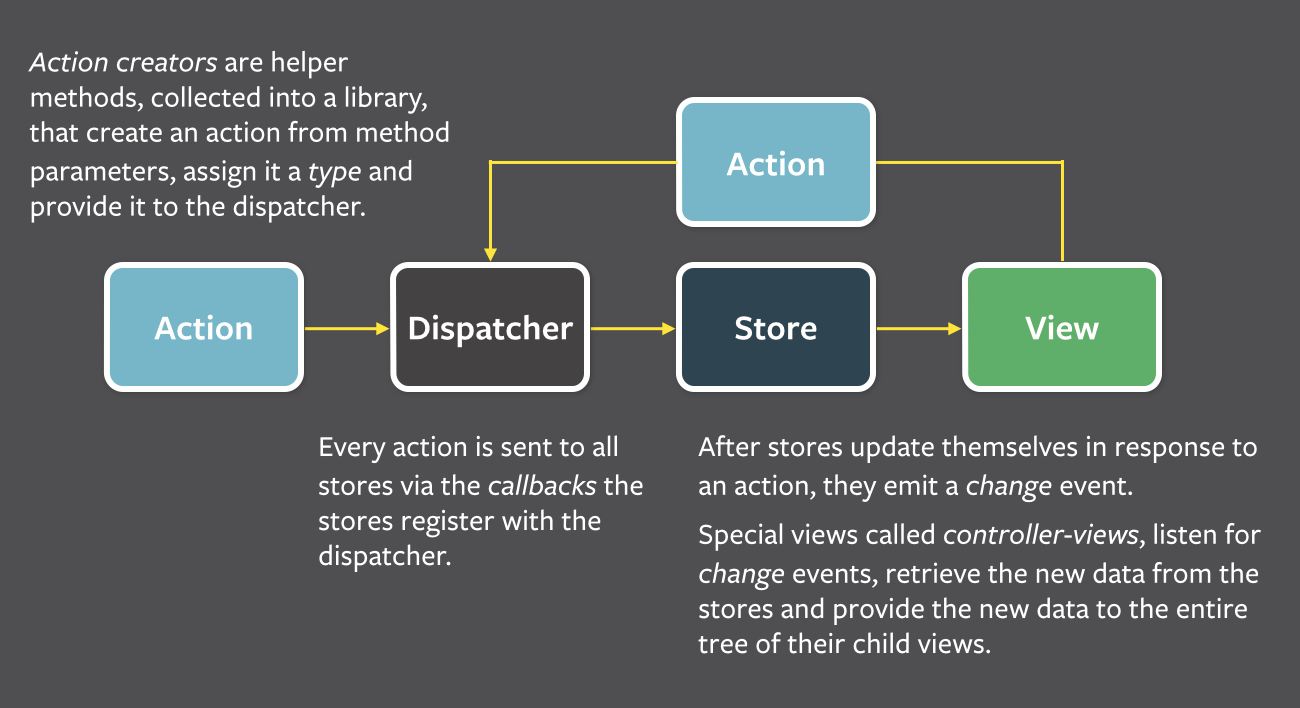
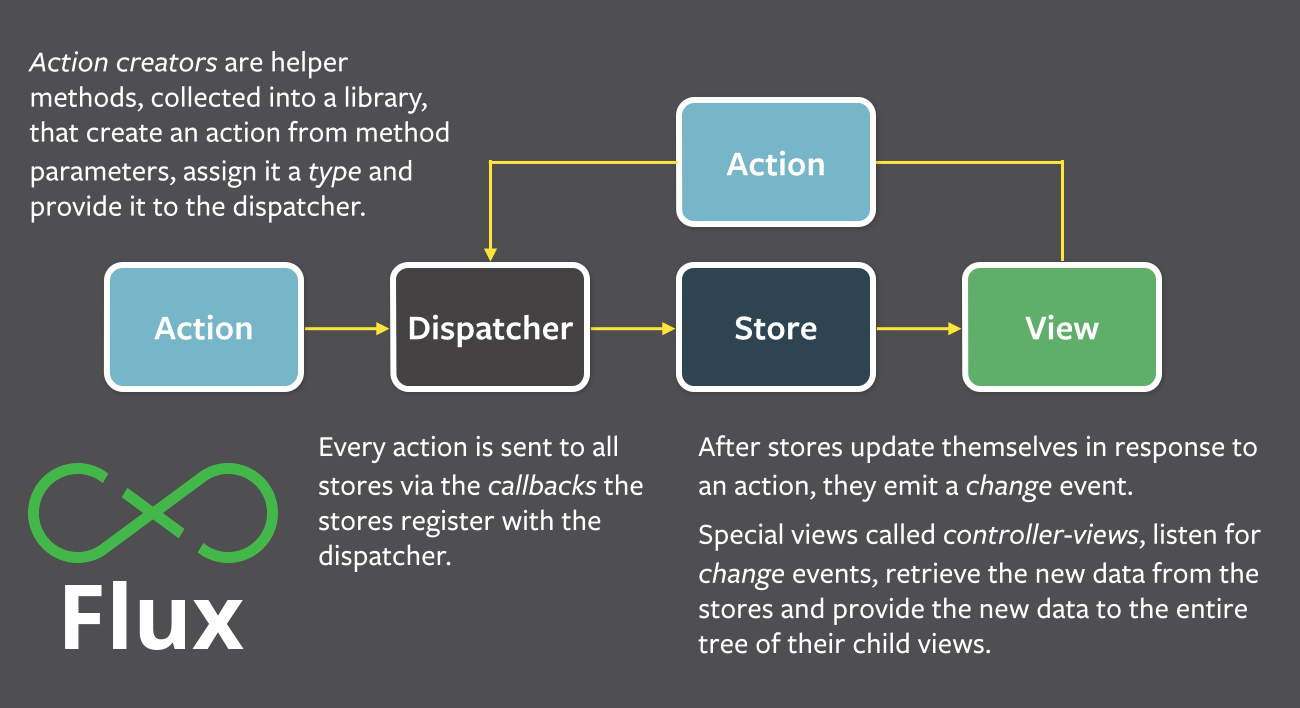
almost done, must break for Game of Thrones

Changed region(s): [[0.0, 0.6525, 0.2154, 0.9322]]

diff --git a/presentation/index.js b/presentation/index.js
@@ -62,6 +62,12 @@ const images = {
   andrewClark: require('../assets/andrew-clark.png').replace('/', ''),
   fluxDiagram: require('../assets/flux-diagram.png').replace('/', ''),
   reduxDiagram: require('../assets/redux-diagram.png').replace('/', ''),
+  fluxLogo: require('../assets/flux-logo.png').replace('/', ''),
+  howPureFunctions: require('../assets/how-pure-functions.jpg').replace('/', ''),
+  julesMutableState: require('../assets/jules-mutable-state.png').replace('/', ''),
+  julesPureFunctions: require('../assets/jules-pure-functions.jpg').replace('/', ''),
+  pureFunctionsMindBlown: require('../assets/pure-functions-mind-blown.jpg').replace('/', ''),
+  toyStoryPureFunctions: require('../assets/toy-story-pure-functions.jpg').replace('/', ''),
 }
 
 const urls = {
@@ -70,6 +76,7 @@ const urls = {
   eggheadRedux01: 'https://egghead.io/courses/getting-started-with-redux',
   eggheadRedux02: 'https://egghead.io/courses/building-react-applications-with-idiomatic-redux',
   recompose: 'https://github.com/acdlite/recompose',
+  reduxActions: 'https://github.com/acdlite/redux-actions',
   reduxLoop: 'https://github.com/raisemarketplace/redux-loop',
   reselect: 'https://github.com/reactjs/reselect',
   normalizr: 'https://github.com/paularmstrong/normalizr',
@@ -90,9 +97,9 @@ const urls = {
   elm: 'http://elm-lang.org/',
   pureScript: 'http://www.purescript.org/',
   reason: 'https://facebook.github.io/reason/',
-  flummox: 'https://facebook.github.io/reason/',
-  nuclearJS: 'https://facebook.github.io/reason/',
-  elmArchitecture: 'https://facebook.github.io/reason/',
+  flummox: 'https://github.com/acdlite/flummox',
+  nuclearJS: 'https://github.com/optimizely/nuclear-js',
+  elmArchitecture: 'http://guide.elm-lang.org/architecture/',
 }
 
 preloader(images)
@@ -121,10 +128,26 @@ class Presentation extends Component {
             </BlockQuote>
           </Slide>
           <Slide transition={['zoom']} bgColor='primary'>
-            <Image src={images.wat} margin='-50px auto 0 auto' height='700px' />
+            <Image src={images.jackieChanWat} margin='0 auto' height='500px' />
           </Slide>
           <Slide transition={['zoom']} bgColor='tertiary'>
-            <Image src={images.jackieChanWat} margin='0 auto' height='500px' />
+            <Image src={images.wat} margin='-50px auto 0 auto' height='700px' />
+          </Slide>
+          <Slide transition={['slide']} bgColor='primary'>
+            <Heading size={1} lineHeight={1.5} caps fit textColor='secondary' textFont='primary'>
+              Redux Creators
+            </Heading>
+          </Slide>
+          <Slide transition={['zoom']} bgColor='tertiary'>
+            <Image src={images.danAbramov} margin='-50px auto 0 auto' height='700px' />
+          </Slide>
+          <Slide transition={['zoom']} bgColor='primary'>
+            <Image src={images.andrewClark} margin='-50px auto 0 auto' height='700px' />
+          </Slide>
+          <Slide transition={['slide']} bgColor='tertiary'>
+            <Heading size={1} lineHeight={1.5} caps fit textColor='primary' textFont='primary'>
+              Redux Origins
+            </Heading>
           </Slide>
           <Slide transition={['zoom']} bgColor='primary'>
             <Image src={images.noMoreVInMVC} margin='-100px auto 0 auto' height='800px' />
@@ -135,30 +158,24 @@ class Presentation extends Component {
           <Slide transition={['zoom']} bgColor='primary'>
             <Image src={images.unidirectionalDataFlow} margin='0px auto 0 auto' height='500px' />
           </Slide>
-          <Slide transition={['zoom']} bgColor='tertiary'>
-            <Image src={images.danAbramov} margin='-50px auto 0 auto' height='700px' />
-          </Slide>
-          <Slide transition={['zoom']} bgColor='primary'>
-            <Image src={images.andrewClark} margin='-50px auto 0 auto' height='700px' />
-          </Slide>
           <Slide transition={['slide']} bgColor='tertiary'>
-            <Heading size={1} caps fit textColor='secondary' textFont='primary'>
-              3 Major Influences
+            <Heading size={1} caps fit textColor='primary' textFont='primary'>
+              3 Key Influences
             </Heading>
             <List>
               <Appear>
                 <ListItem>
-                  <a href='https://github.com/acdlite/flummox'>Flummox</a>
+                  <a href={urls.flummox}>flummox</a>
                 </ListItem>
               </Appear>
               <Appear>
                 <ListItem>
-                  <a href='https://github.com/optimizely/nuclear-js'>nuclear-js</a>
+                  <a href={urls.nuclearJS}>nuclear-js</a>
                 </ListItem>
               </Appear>
               <Appear>
                 <ListItem>
-                  <a href='http://guide.elm-lang.org/architecture/'>The Elm Architecture</a>
+                  <a href={urls.elmArchitecture}>The Elm Architecture</a>
                 </ListItem>
               </Appear>
             </List>
@@ -167,51 +184,124 @@ class Presentation extends Component {
             <Image src={images.reduxDiagram} margin='0px auto 0 auto' height='500px' />
           </Slide>
           <Slide transition={['slide']} bgColor='tertiary'>
-            <Heading size={1} caps fit textColor='secondary' textFont='primary'>
+            <Heading size={1} caps fit textColor='primary' textFont='primary'>
               The 3 principles of Redux
             </Heading>
             <List>
               <Appear>
-                <ListItem>Single source of truth</ListItem>
+                <ListItem>There is always only a single source of truth</ListItem>
               </Appear>
               <Appear>
-                <ListItem>State is read-only</ListItem>
+                <ListItem>The application state is immutable (read-only)</ListItem>
               </Appear>
               <Appear>
-                <ListItem>Changes are made with pure functions</ListItem>
+                <ListItem>Changes to state are made via pure functions</ListItem>
               </Appear>
             </List>
           </Slide>
           <Slide transition={['slide']} bgColor='primary'>
             <Heading size={1} lineHeight={1.5} caps fit textColor='secondary' textFont='primary'>
-              Single source of truth
+              There is always only a single source of truth
             </Heading>
-            <Text textColor='secondary' textFont='primary'>
+            <Text textColor='secondary' textFont='primary' textAlign='left'>
               The state of your whole application is stored in an object tree within a single store.
             </Text>
           </Slide>
           <Slide transition={['slide']} bgColor='primary'>
             <Heading size={1} lineHeight={1.5} caps fit textColor='secondary' textFont='primary'>
-              State is read-only
+              The application state is immutable (read-only)
             </Heading>
-            <Text textColor='secondary' textFont='primary'>
+            <Text textColor='secondary' textFont='primary' textAlign='left'>
               The only way to mutate the state is to emit an action, an object describing what happened.
             </Text>
           </Slide>
+          <Slide transition={['zoom']} bgColor='primary'>
+            <Image src={images.julesMutableState} margin='0 auto' height='500px' />
+          </Slide>
           <Slide transition={['slide']} bgColor='primary'>
             <Heading size={1} lineHeight={1.5} caps fit textColor='secondary' textFont='primary'>
-              Changes are made with pure functions
+              Changes to state are made via pure functions
             </Heading>
-            <Text textColor='secondary' textFont='primary'>
+            <Text textColor='secondary' textFont='primary' textAlign='left'>
               To specify how the state tree is transformed by actions, you write pure reducers.
             </Text>
           </Slide>
-          <Slide transition={['slide']} bgColor='primary'>
-            <Heading size={1} caps fit textColor='secondary' textFont='primary'>
-              Go through the basic pieces & workflow of Redux
+          <Slide transition={['zoom']} bgColor='primary'>
+            <Image src={images.julesPureFunctions} margin='0 auto' height='500px' />
+          </Slide>
+          <Slide transition={['slide']} bgColor='tertiary'>
+            <Heading size={1} lineHeight={1.5} caps fit textColor='primary' textFont='primary'>
+              A Pure function is stateless
             </Heading>
-            <Heading size={1} caps fit textColor='secondary' textFont='primary'>
-              State tree, Store, Actions, Reducers, middleware, etc.
+            <List>
+              <Appear>
+                <ListItem>
+                  Given the same input, will always return the same output.
+                </ListItem>
+              </Appear>
+              <Appear>
+                <ListItem>
+                  Produces no side effects.
+                </ListItem>
+              </Appear>
+              <Appear>
+                <ListItem>
+                  Relies on no external state.
+                </ListItem>
+              </Appear>
+            </List>
+          </Slide>
+          <Slide transition={['slide']} bgColor='tertiary'>
+            <Heading size={1} lineHeight={1.5} caps fit textColor='primary' textFont='primary'>
+              Benefits of Using Pure Functions
+            </Heading>
+            <List>
+              <Appear>
+                <ListItem>
+                  Makes application flow easier to understand.
+                </ListItem>
+              </Appear>
+              <Appear>
+                <ListItem>
+                  Simplifies testing, functions are modular & self-contained.
+                </ListItem>
+              </Appear>
+              <Appear>
+                <ListItem>
+                  Enables powerful developer tools
+                </ListItem>
+              </Appear>
+            </List>
+          </Slide>
+          <Slide transition={['zoom']} bgColor='primary'>
+            <Image src={images.pureFunctionsMindBlown} margin='0 auto' height='500px' />
+          </Slide>
+          <Slide transition={['zoom']} bgColor='primary'>
+            <Image src={images.toyStoryPureFunctions} margin='0 auto' height='500px' />
+          </Slide>
+          <Slide transition={['slide']} bgColor='tertiary'>
+            <Heading size={1} lineHeight={1.5} caps fit textColor='primary' textFont='primary'>
+              Redux Basics
+            </Heading>
+          </Slide>
+          <Slide transition={['slide']} bgColor='tertiary'>
+            <Heading size={1} lineHeight={1.5} caps fit textColor='primary' textFont='primary'>
+              Actions
+            </Heading>
+          </Slide>
+          <Slide transition={['slide']} bgColor='tertiary'>
+            <Heading size={1} lineHeight={1.5} caps fit textColor='primary' textFont='primary'>
+              Reducers
+            </Heading>
+          </Slide>
+          <Slide transition={['slide']} bgColor='tertiary'>
+            <Heading size={1} lineHeight={1.5} caps fit textColor='primary' textFont='primary'>
+              Store
+            </Heading>
+          </Slide>
+          <Slide transition={['slide']} bgColor='tertiary'>
+            <Heading size={1} lineHeight={1.5} caps fit textColor='primary' textFont='primary'>
+              Middleware
             </Heading>
           </Slide>
           <Slide transition={['spin', 'slide']} bgColor='tertiary'>
@@ -249,15 +339,9 @@ class Presentation extends Component {
               </Appear>
             </List>
           </Slide>
-          <Slide transition={['zoom']} bgColor='tertiary'>
-            <Image src={images.bruceLeeLimits} margin='-50px auto 0 auto' height='700px' />
-          </Slide>
           <Slide transition={['slide']} bgColor='tertiary'>
             <Heading size={1} caps fit textColor='primary' textFont='primary'>
-              Rethinking dogma
-            </Heading>
-            <Heading size={1} caps fit textColor='primary' textFont='primary'>
-              & <span style={{ color: theme.screen.colors.secondary }}>innovating</span>
+              <span style={{ color: theme.screen.colors.secondary }}>Progression</span>
             </Heading>
             <Heading size={1} caps fit textColor='primary' textFont='primary'>
                is what the React community
@@ -265,6 +349,9 @@ class Presentation extends Component {
             <Heading size={1} caps fit textColor='primary' textFont='primary'>
                is all about
             </Heading>
+          </Slide>
+          <Slide transition={['zoom']} bgColor='tertiary'>
+            <Image src={images.bruceLeeLimits} margin='-50px auto 0 auto' height='700px' />
           </Slide>
           <Slide transition={['spin', 'slide']} bgColor='tertiary'>
             <Heading size={1} caps fit lineHeight={1} textColor='primary'>
@@ -293,33 +380,34 @@ class Presentation extends Component {
               <Appear>
                 <ListItem>Try out complimentary libraries: <br />&nbsp;&nbsp;&nbsp;&nbsp;
                   <a href={urls.recompose}>recompose</a>,&nbsp;
-                  <a href={urls.reduxLoop}>redux-loop</a>,&nbsp;
+                  <a href={urls.reduxActions}>redux-actions</a>,&nbsp;
                   <a href={urls.reselect}>reselect</a>,&nbsp;
                   <a href={urls.normalizr}>normalizr</a>,&nbsp;
                   <a href={urls.immutableJS}>immutable-js</a>
                 </ListItem>
               </Appear>
               <Appear>
-                <ListItem>Explore more advanced middleware: <br />&nbsp;&nbsp;&nbsp;&nbsp;
+                <ListItem>Explore more sophisticated async control flow: <br />&nbsp;&nbsp;&nbsp;&nbsp;
                   <a href={urls.reduxSaga}>redux-saga</a>,&nbsp;
                   <a href={urls.reduxObservable}>redux-observable</a>,&nbsp;
-                  <a href={urls.reduxRx}>redux-rx</a>
+                  <a href={urls.reduxRx}>redux-rx</a>,&nbsp;
+                  <a href={urls.reduxLoop}>redux-loop</a>
                 </ListItem>
               </Appear>
               <Appear>
                 <ListItem>Consider alternatives to Redux: <br />&nbsp;&nbsp;&nbsp;&nbsp;
                   <a href={urls.relay}>relay</a>,&nbsp;
-                  <a href={urls.mobx}>mobx</a>,&nbsp;
-                  reactive streams&nbsp;
-                  (<a href={urls.rxjs}>rxjs</a>,&nbsp;
+                  <a href={urls.mobx}>mobx</a>, reactive streams (
+                  <a href={urls.rxjs}>rxjs</a>,&nbsp;
                   <a href={urls.most}>most</a>,&nbsp;
-                  <a href={urls.xstream}>xstream</a>)
+                  <a href={urls.xstream}>xstream</a>
+                  )
                 </ListItem>
               </Appear>
               <ListItem style={{ visibility: 'hidden' }}>Look to other frameworks & languages for ideas: <br />&nbsp;&nbsp;&nbsp;&nbsp;
                 <a href={urls.cycle}>Cycle</a>,&nbsp;
                 <a href={urls.clojureScript}>ClojureScript</a>,&nbsp;
-                <a href={urls.reagent}>reagent</a>,&nbsp;
+                <a href={urls.reagent}>reagent</a>/
                 <a href={urls.reFrame}>re&#8209;frame</a>,&nbsp;
                 <a href={urls.om}>Om</a>,&nbsp;
                 <a href={urls.elm}>Elm</a>,&nbsp;
@@ -339,29 +427,30 @@ class Presentation extends Component {
             <List>
               <ListItem>Try out complimentary libraries: <br />&nbsp;&nbsp;&nbsp;&nbsp;
                 <a href={urls.recompose}>recompose</a>,&nbsp;
-                <a href={urls.reduxLoop}>redux-loop</a>,&nbsp;
+                <a href={urls.reduxActions}>redux-actions</a>,&nbsp;
                 <a href={urls.reselect}>reselect</a>,&nbsp;
                 <a href={urls.normalizr}>normalizr</a>,&nbsp;
                 <a href={urls.immutableJS}>immutable-js</a>
               </ListItem>
-              <ListItem>Explore more advanced middleware: <br />&nbsp;&nbsp;&nbsp;&nbsp;
+              <ListItem>Explore more sophisticated async control flow: <br />&nbsp;&nbsp;&nbsp;&nbsp;
                 <a href={urls.reduxSaga}>redux-saga</a>,&nbsp;
                 <a href={urls.reduxObservable}>redux-observable</a>,&nbsp;
-                <a href={urls.reduxRx}>redux-rx</a>
+                <a href={urls.reduxRx}>redux-rx</a>,&nbsp;
+                <a href={urls.reduxLoop}>redux-loop</a>
               </ListItem>
               <ListItem>Consider alternatives to Redux: <br />&nbsp;&nbsp;&nbsp;&nbsp;
                 <a href={urls.relay}>relay</a>,&nbsp;
-                <a href={urls.mobx}>mobx</a>,&nbsp;
-                reactive streams&nbsp;
-                (<a href={urls.rxjs}>rxjs</a>,&nbsp;
+                <a href={urls.mobx}>mobx</a>, reactive streams (
+                <a href={urls.rxjs}>rxjs</a>,&nbsp;
                 <a href={urls.most}>most</a>,&nbsp;
-                <a href={urls.xstream}>xstream</a>)
+                <a href={urls.xstream}>xstream</a>
+                )
               </ListItem>
               <Appear>
                 <ListItem>Look to other frameworks & languages for ideas: <br />&nbsp;&nbsp;&nbsp;&nbsp;
                   <a href={urls.cycle}>Cycle</a>,&nbsp;
                   <a href={urls.clojureScript}>ClojureScript</a>,&nbsp;
-                  <a href={urls.reagent}>reagent</a>,&nbsp;
+                  <a href={urls.reagent}>reagent</a>/
                   <a href={urls.reFrame}>re&#8209;frame</a>,&nbsp;
                   <a href={urls.om}>Om</a>,&nbsp;
                   <a href={urls.elm}>Elm</a>,&nbsp;
